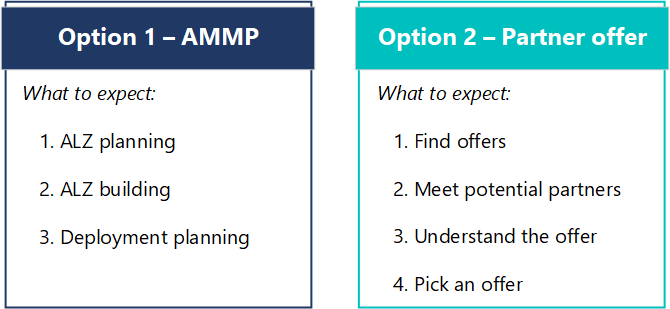
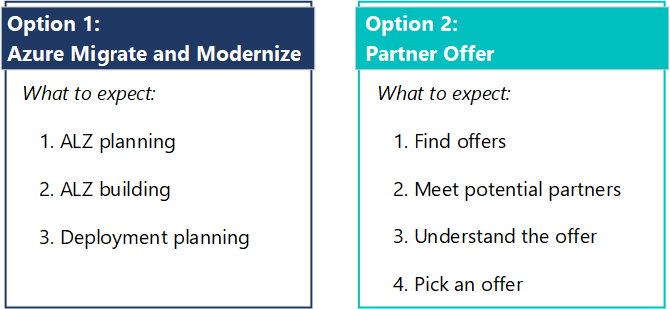
AMMP rename

Changed region(s): [[0.0, 0.0583, 0.4478, 0.233], [0.5373, 0.0583, 0.9851, 0.2039]]

diff --git a/docs/ready/landing-zone/partner-landing-zone.md b/docs/ready/landing-zone/partner-landing-zone.md
@@ -17,7 +17,7 @@ We'll show you how to find a partner and what to expect from your partner.
 
 There are two options to find an ALZ partner (*see image*).
 
-- *Option 1* - use the Azure Migration and Modernization Program.
+- *Option 1* - use Azure Migrate and Modernization.
 - *Option 2* - find a partner offer for a landing zone in our marketplace.
 
 
